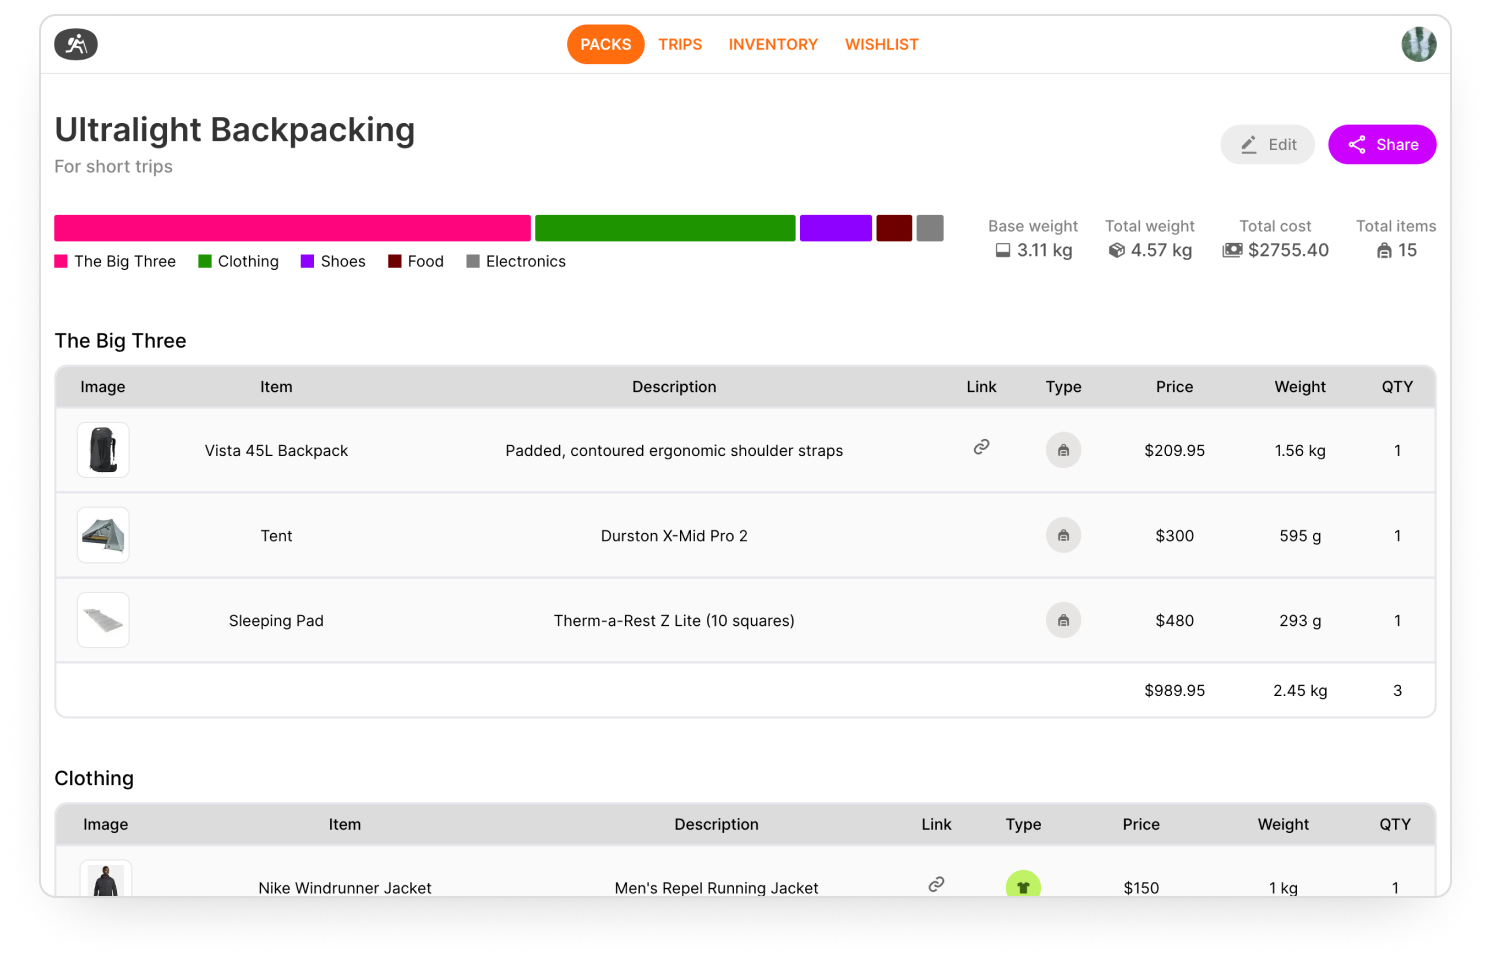
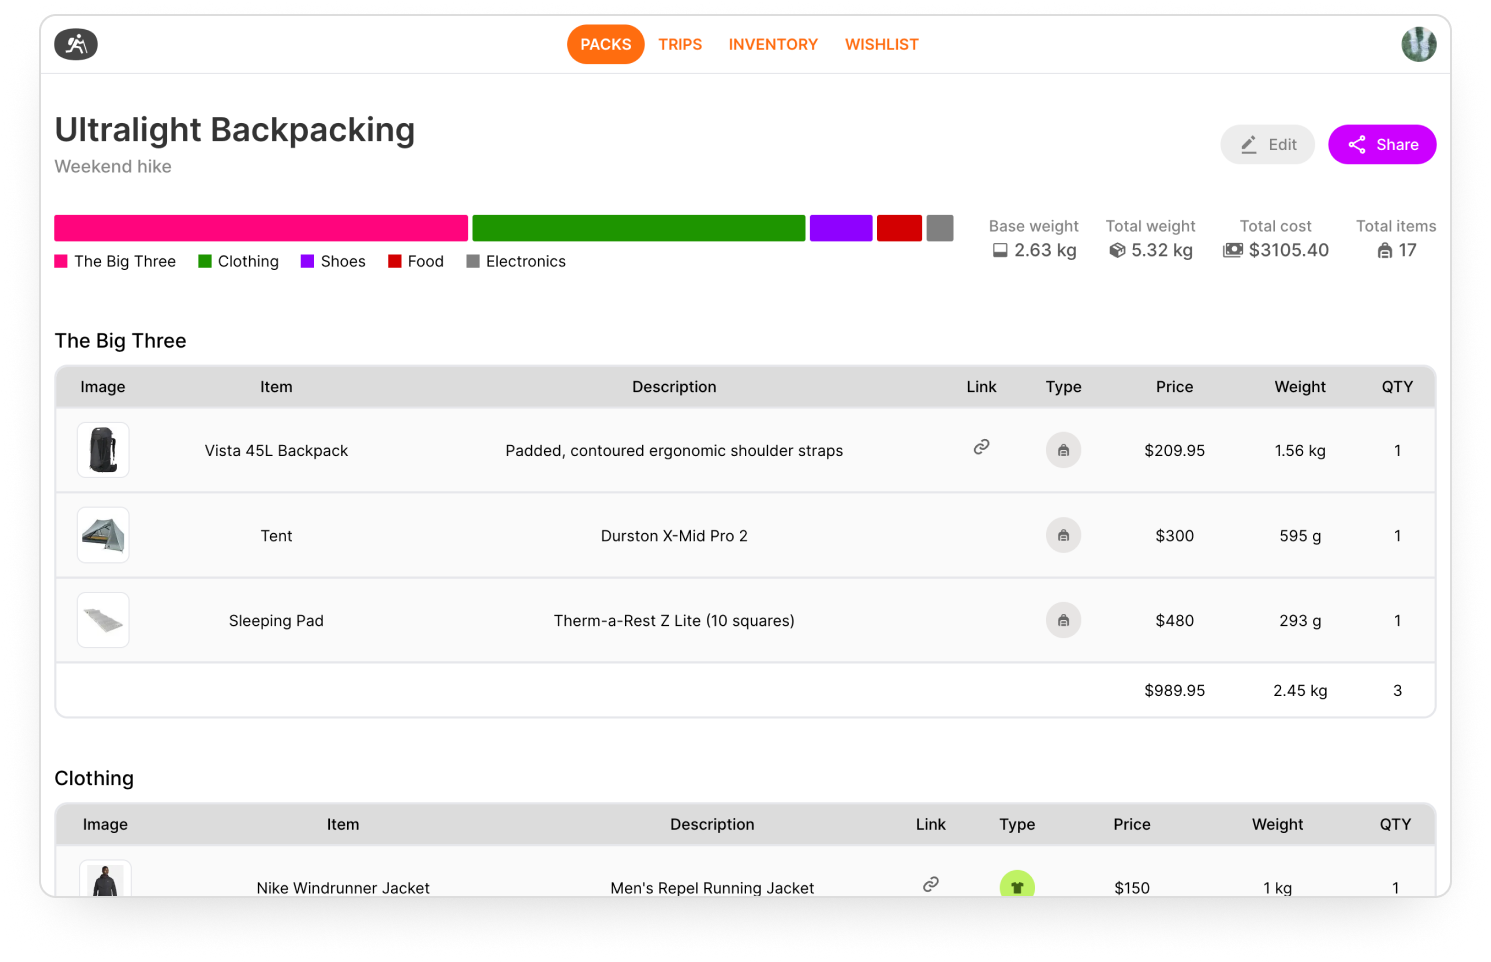
Update colour palette for more visibility in dark mode

diff --git a/src/utils/chartUtils.ts b/src/utils/chartUtils.ts
@@ -1,12 +1,8 @@
-import { Database } from "@/lib/database.types";
-import { createClientComponentClient } from "@supabase/auth-helpers-nextjs";
-import toast from "react-hot-toast";
-
 export const CHART_COLOURS = [
   "#FF047D",
   "#1E9500",
   "#8F00FF",
-  "#6F0000",
+  "#D30000",
   "#808080",
   "#009987",
   "#BBB400",
